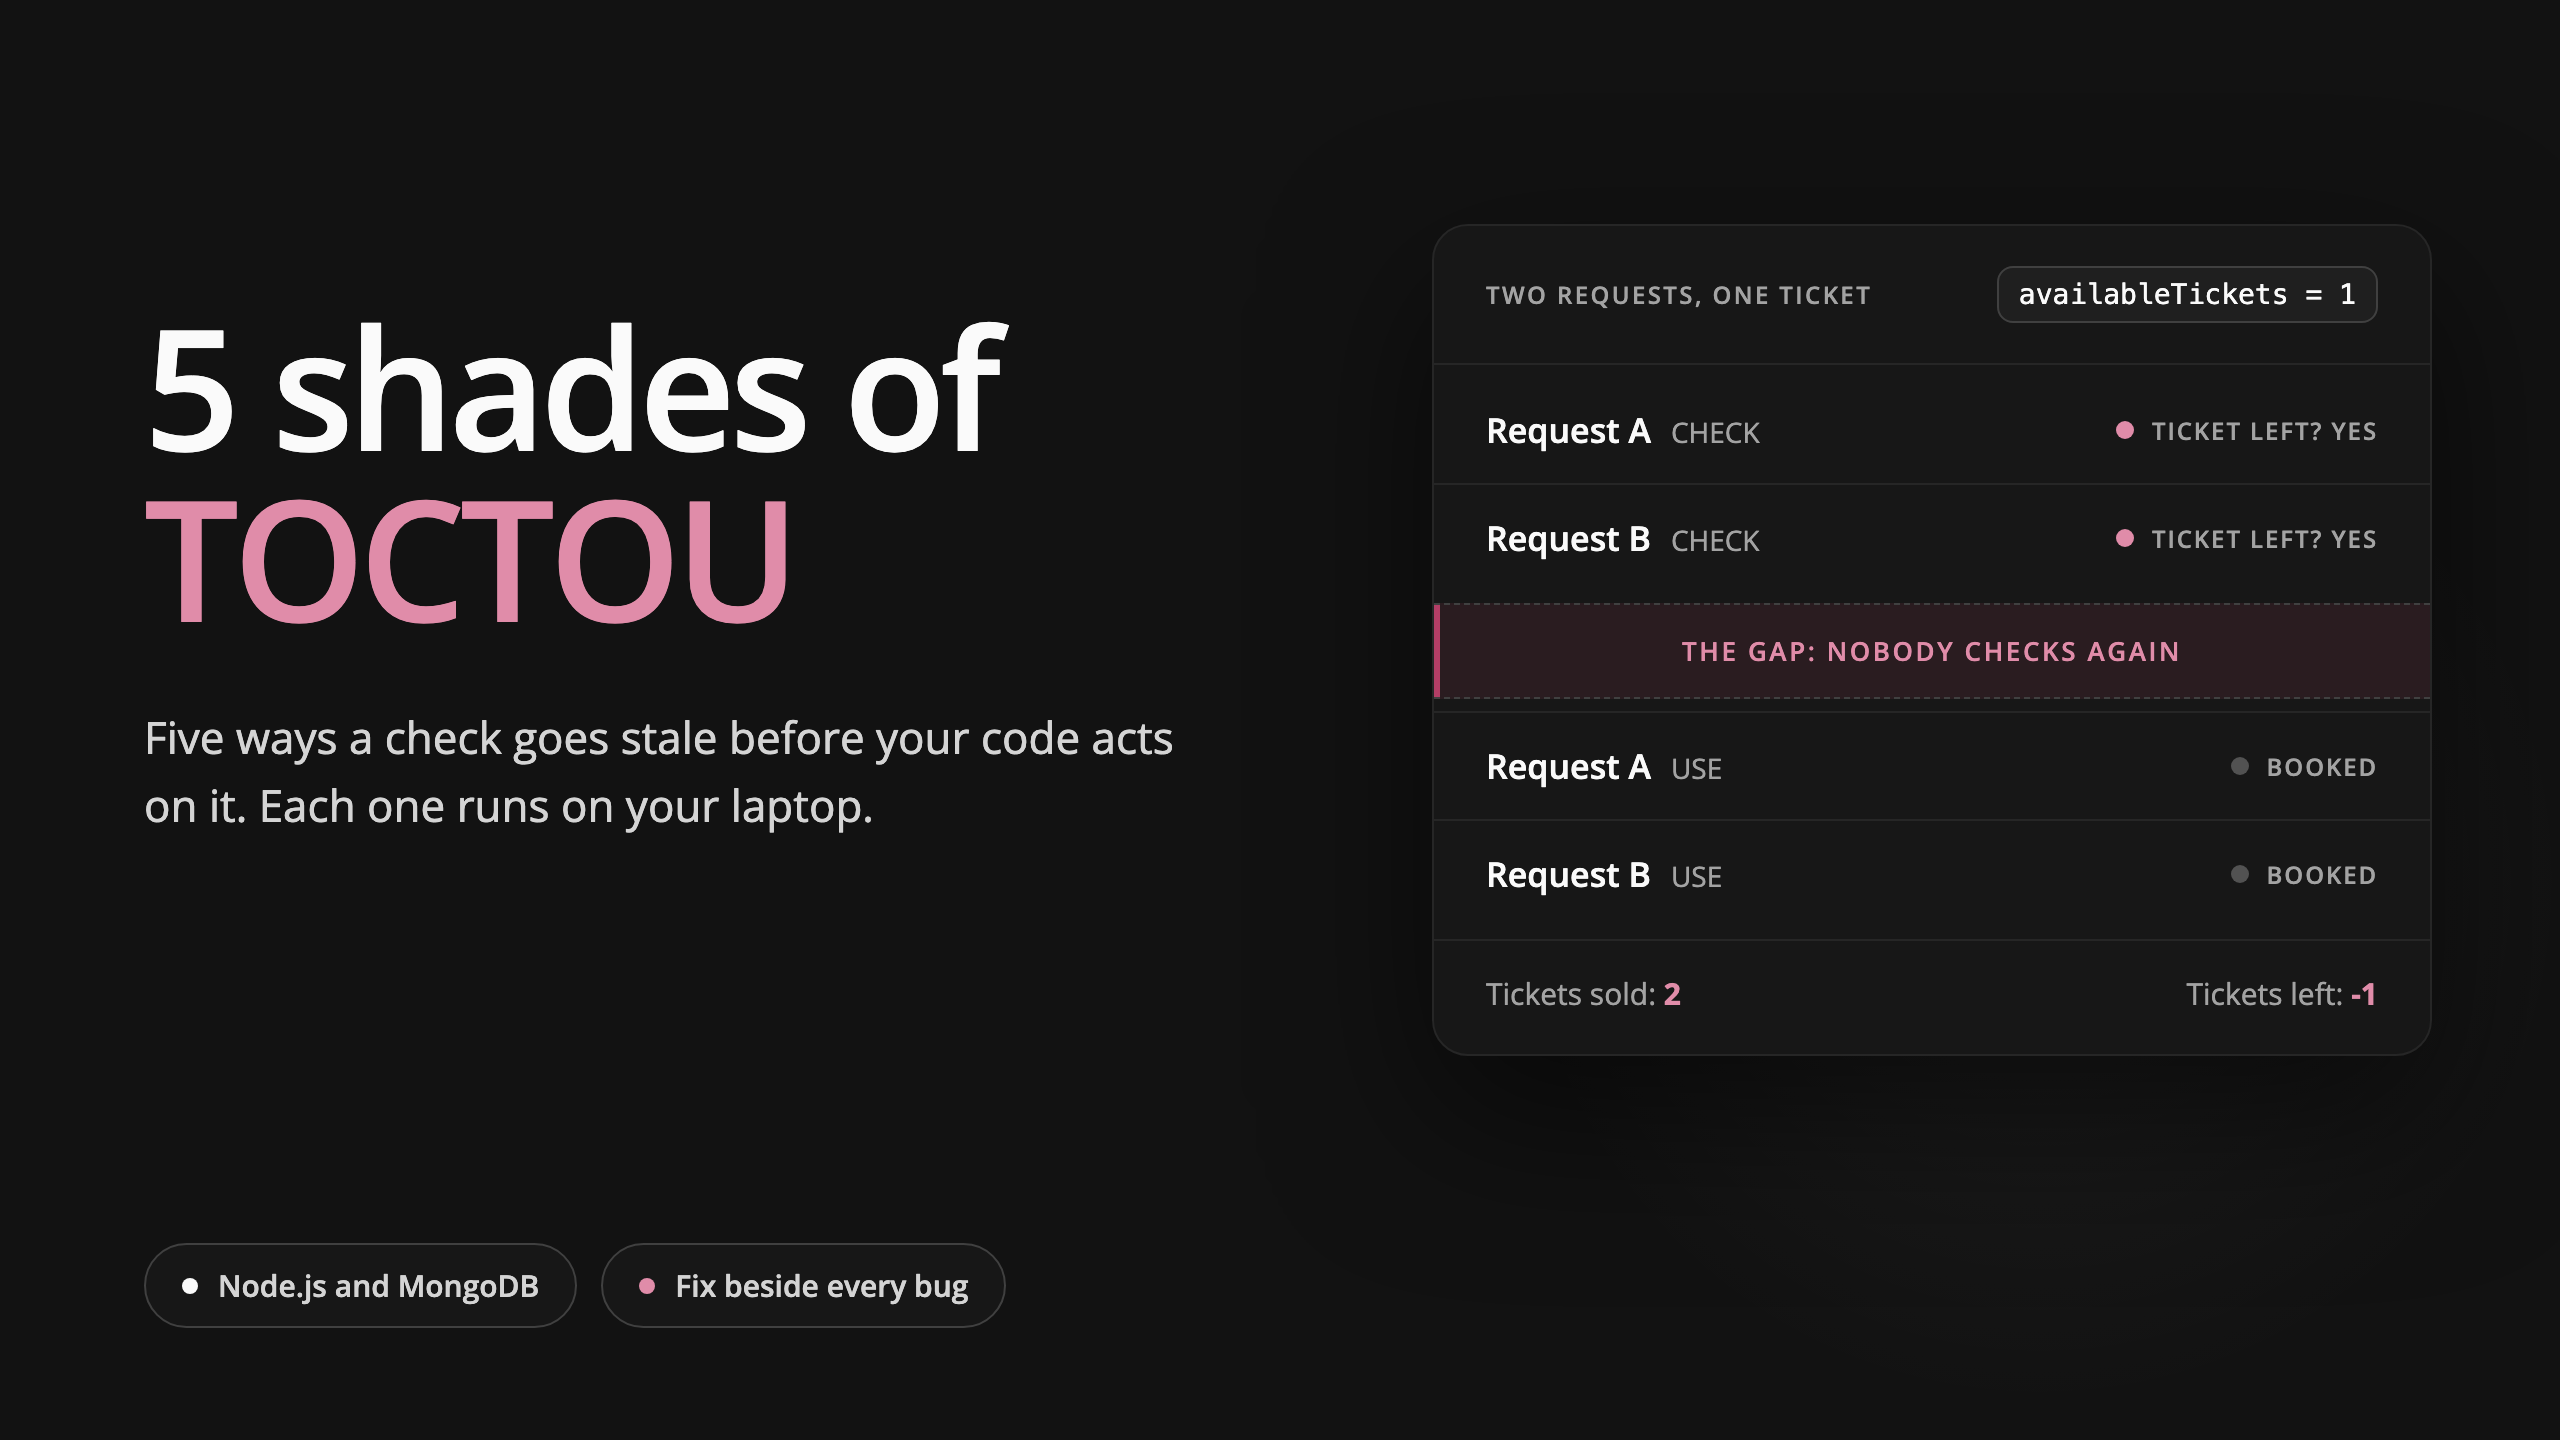
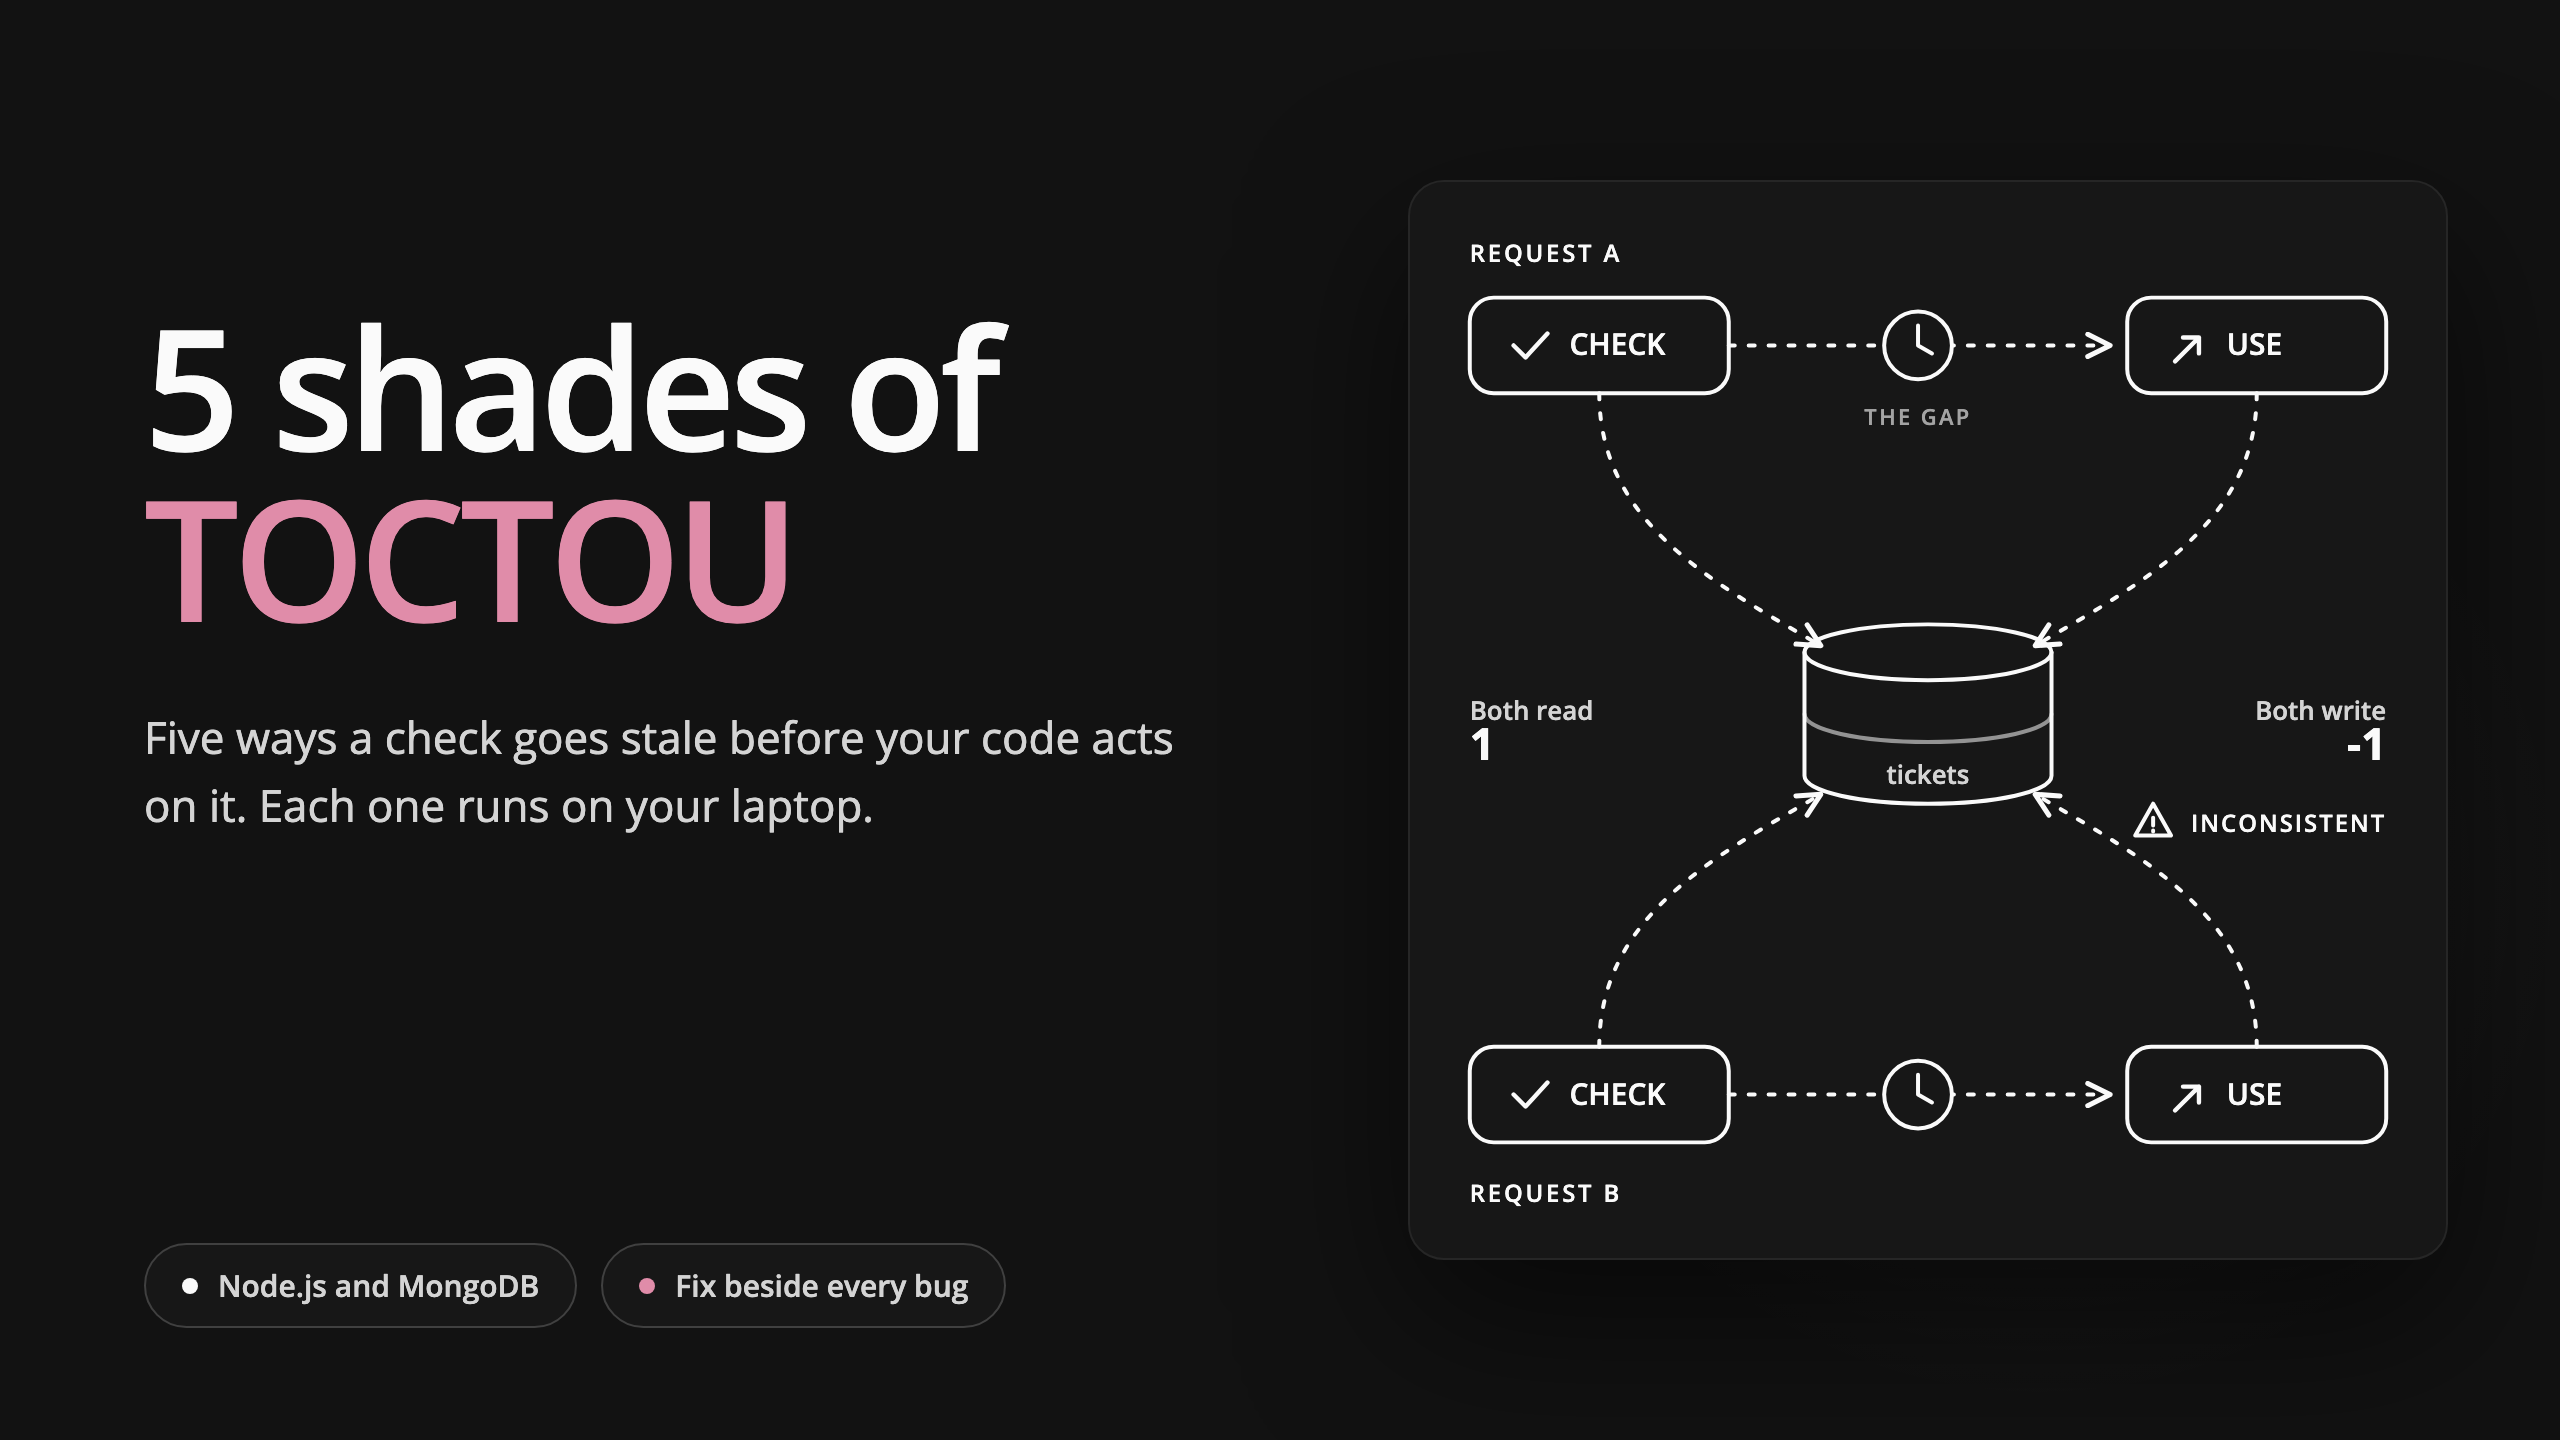
TOCTOU article: flow-chart cover and use it as the link preview image

diff --git a/src/content.config.ts b/src/content.config.ts
@@ -12,6 +12,8 @@ const blog = defineCollection({
     tags: z.array(z.string()),
     description: z.string(),
     heroImage: z.string().optional(),
+    // Use the hero image as the link-preview (Open Graph) image; others keep the site image. Size is 2560x1440.
+    ogHero: z.boolean().optional(),
     // Where the article first appeared (for example LinkedIn); the page links back to it.
     original: z.url().optional(),
   }),
